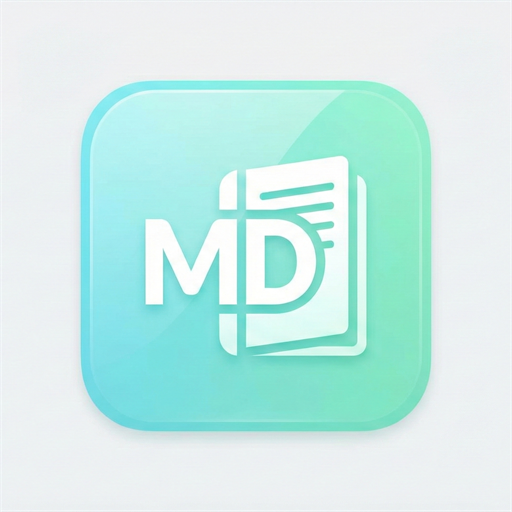
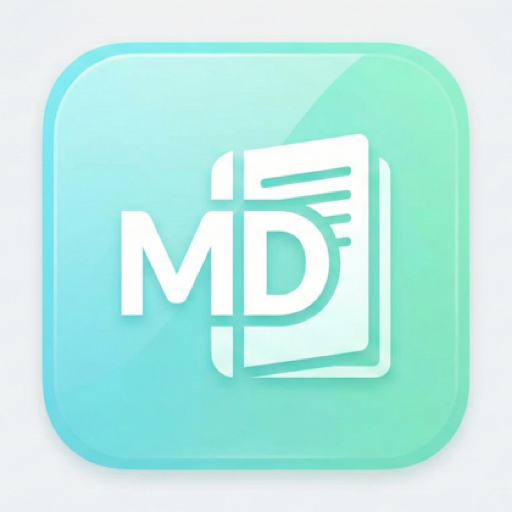
release v0.4.10

diff --git a/assets/editor_shell.html b/assets/editor_shell.html
@@ -346,7 +346,7 @@
   </div>
   <script>
     let editor = null;
-    let currentMode = "ir";
+    let currentMode = "wysiwyg";
     let readySent = false;
     let engineBooted = false;
     let engineError = "";

diff --git a/tests/editor_shell_i18n.rs b/tests/editor_shell_i18n.rs
@@ -41,6 +41,15 @@ fn defaults_to_english_without_saved_locale() {
 }
 
 #[test]
+fn defaults_to_wysiwyg_editor_mode() {
+    let html = shell_html();
+    assert!(
+        html.contains("let currentMode = \"wysiwyg\";"),
+        "expected the editor shell to open in WYSIWYG mode by default"
+    );
+}
+
+#[test]
 fn only_forces_preview_container_visible_in_split_mode() {
     let html = shell_html();
     assert!(

diff --git a/README.md b/README.md
@@ -34,7 +34,7 @@ English | [简体中文](README.zh-CN.md)
 
 ## Why md-bider Wins Attention
 
-- **Instant writing flow**: Launch directly into `IR` mode and start typing immediately.
+- **Instant writing flow**: Launch directly into `WYSIWYG` mode and start typing immediately.
 - **Desktop-grade tabs**: Chrome-like tab behavior for true multi-file local editing.
 - **CJK-safe file handling**: `UTF-8` + `UTF-16 BOM` + detector + `GBK` fallback.
 - **Rust-powered runtime**: Compiled native core for stable, predictable desktop behavior.

diff --git a/README.zh-CN.md b/README.zh-CN.md
@@ -34,7 +34,7 @@
 
 ## 为什么选择 md-bider
 
-- **打开就写**：默认进入 `IR` 模式，零准备、零等待。
+- **打开就写**：默认进入 `WYSIWYG` 模式，零准备、零等待。
 - **标签页像浏览器一样顺手**：多文件并行编辑更接近日常桌面习惯。
 - **中文/旧编码更稳**：支持 `UTF-8`、`UTF-16 BOM`、探测与 `GBK` 回退。
 - **Rust 原生编译**：运行行为干净，性能和稳定性更可控。

diff --git a/CHANGELOG.md b/CHANGELOG.md
@@ -2,6 +2,13 @@
 
 All notable changes to this project will be documented in this file.
 
+## [0.4.10] - 2026-04-25
+
+### Changed
+
+- Open new sessions in WYSIWYG mode by default.
+- Crop the macOS app icon artwork so it fills the icon frame better.
+
 ## [0.4.9] - 2026-04-25
 
 ### Fixed
